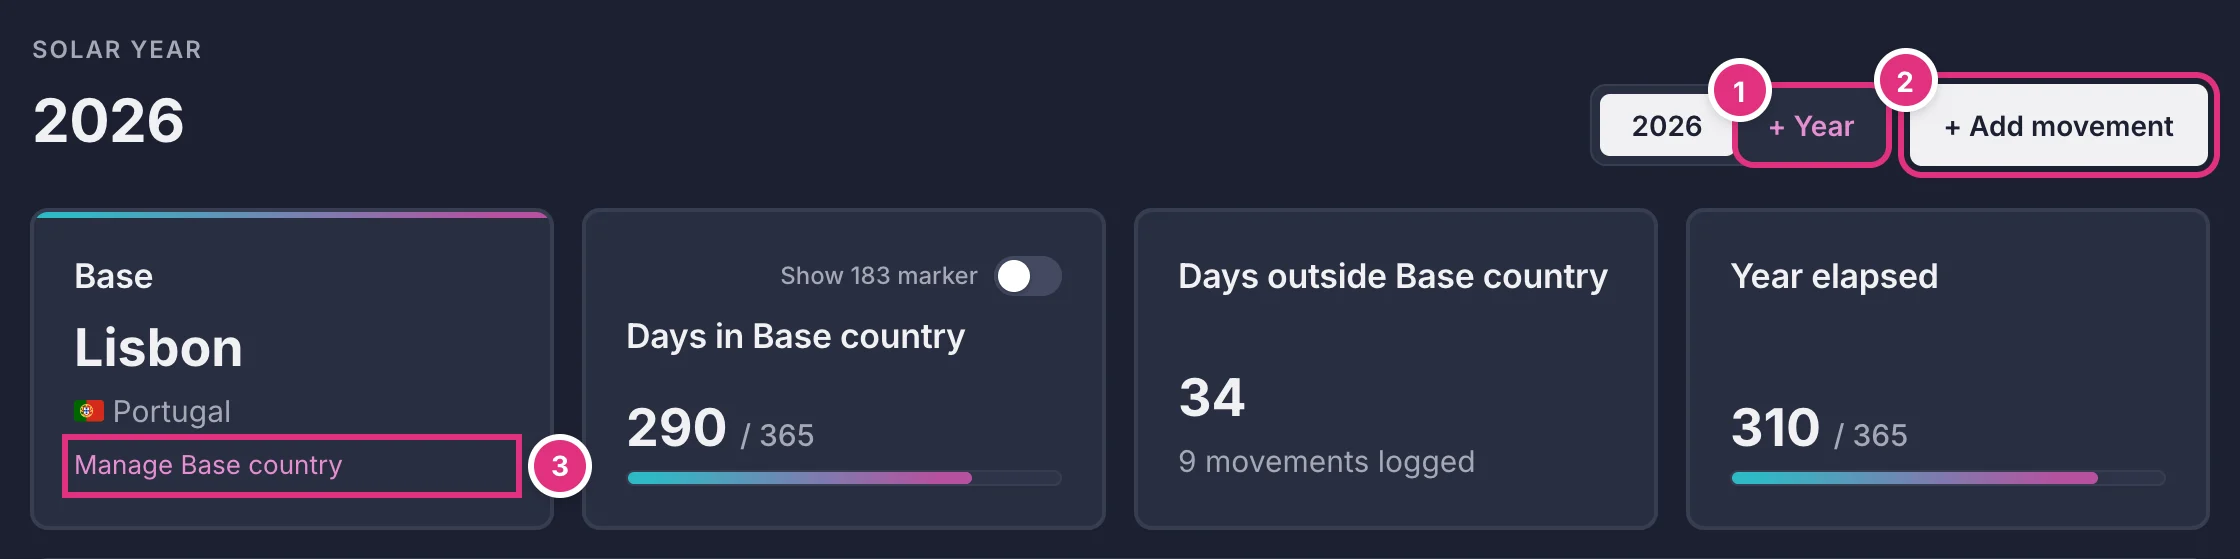
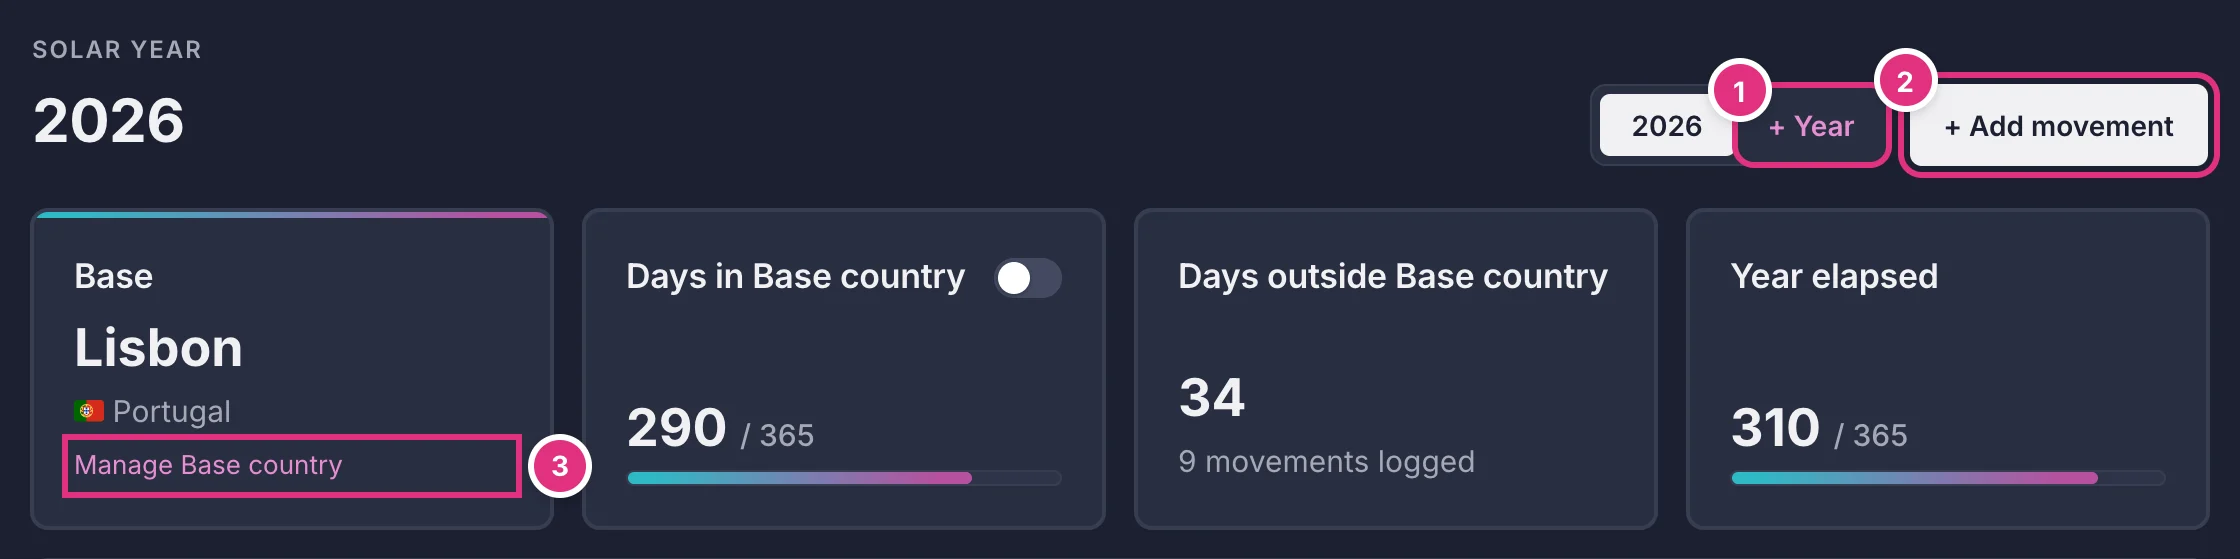
1.12.11: visible button borders, tooltip switch on the title line, years oldest first, year setup layout and Back

Changed region(s): [[0.2812, 0.4562, 0.4688, 0.517], [0.2812, 0.5778, 0.4375, 0.6386], [0.4375, 0.517, 0.4688, 0.5474]]

diff --git a/static/css/style.css b/static/css/style.css
@@ -13,6 +13,7 @@
   --border: #EAEBEF;
   --input-bg: #FFFFFF;
   --input-border: #D2D4DC;
+  --btn-border: #80869A;  /* outlined buttons: 3:1 on cards and the page */
   --topbar: #2B2D3C;
   --topbar-text: #F1F1F3;
   --primary: #383D51;
@@ -59,6 +60,7 @@
   --border: #383D51;
   --input-bg: #1B2030;
   --input-border: #444A62;
+  --btn-border: #767D98;
   --topbar: #1B2030;
   --topbar-text: #F1F1F3;
   --primary: #F1F1F3;
@@ -97,6 +99,7 @@
     --border: #383D51;
     --input-bg: #1B2030;
     --input-border: #444A62;
+    --btn-border: #767D98;
     --topbar: #1B2030;
     --topbar-text: #F1F1F3;
     --primary: #F1F1F3;
@@ -236,7 +239,7 @@ p { margin: 0; }
 .btn:hover { text-decoration: none; }
 .btn-primary { background: var(--primary); color: var(--primary-text); }
 .btn-primary:hover { opacity: 0.88; }
-.btn-ghost { background: transparent; color: var(--text); border-color: var(--border); }
+.btn-ghost { background: transparent; color: var(--text); border-color: var(--btn-border); }
 .btn-ghost:hover { background: var(--surface-2); }
 .btn-danger { background: var(--danger); color: #fff; }
 .btn-danger:hover { filter: brightness(0.88); }  /* darken, never fade: white text keeps its contrast */
@@ -316,11 +319,19 @@ main:focus { outline: none; }
 .stat-of { font-size: 15px; font-weight: 500; }
 .stat-base { position: relative; overflow: hidden; }
 .stat-base::before { content: ""; position: absolute; inset: 0 0 auto 0; height: 3px; background: var(--gradient); }
-.stat-head { display: flex; flex-direction: column; gap: 6px; }
-.stat-head .switch { align-self: flex-end; }  /* above the title, at the top right */
+.stat-head { display: flex; align-items: center; justify-content: space-between; gap: 10px; }  /* the title, the switch at its right */
 /* Cards in a row share one height: the title stays at the top and the content sits at the
    bottom, so a card with less to show has its gap under the title, not under the content. */
 .year-stats .stat > .stat-label + *, .year-stats .stat > .stat-head + * { margin-top: auto; }
+/* The switch with only a tooltip (its name is the aria-label), opening toward the card. */
+.switch-tip[data-tip] { position: relative; }
+.switch-tip[data-tip]::after {
+  content: attr(data-tip); position: absolute; top: calc(100% + 8px); right: 0; z-index: 30; padding: 5px 9px; border-radius: 6px; white-space: nowrap;
+  background: var(--primary); color: var(--primary-text); font-size: 12px; font-weight: 600; line-height: 1.3; box-shadow: var(--shadow);
+  opacity: 0; transform: translateY(-2px); pointer-events: none; transition: opacity 0.12s ease, transform 0.12s ease;
+}
+@media (hover: hover) { .switch-tip[data-tip]:hover::after { opacity: 1; transform: none; } }
+.switch-tip[data-tip]:focus-visible::after { opacity: 1; transform: none; }
 
 /* iOS style switch (role="switch", aria-checked), here for the 183 day marker of the Days in
    Base Country and Days per Country cards, one setting for both. Off hides everything marked

diff --git a/templates/dashboard.html b/templates/dashboard.html
@@ -12,7 +12,7 @@
       {% for r in years %}
         <a class="year-tab {% if r.year == y.year %}active{% endif %}" href="{{ url_for('dashboard', year=r.year) }}"{% if r.year == y.year %} aria-current="page"{% endif %}>{{ r.year }}</a>
       {% endfor %}
-      <a class="year-tab add" href="{{ url_for('new_year') }}" title="Add a year">+ Year</a>
+      <a class="year-tab add" href="{{ url_for('new_year', back=y.year) }}" title="Add a year">+ Year</a>
     </nav>
     <a class="btn btn-primary" href="{{ url_for('movement_new', year=y.year) }}">+ Add movement</a>
   </div>
@@ -27,10 +27,11 @@
   </div>
   <div class="card stat">
     <div class="stat-head">
-      {# Shown by theme.js; the choice is kept in this browser (theme-init.js applies it before
-         the page is drawn). Without JavaScript the marker always shows. #}
-      <button type="button" class="switch" role="switch" aria-checked="false" data-marker-switch hidden><span class="switch-label">Show {{ stats.threshold }} marker</span><span class="switch-track" aria-hidden="true"><span class="switch-thumb"></span></span></button>
       <p class="stat-label">Days in Base country</p>
+      {# Shown by theme.js; the choice is kept in this browser (theme-init.js applies it before
+         the page is drawn). Without JavaScript the marker always shows. No visible label, so the
+         title stays on the line of the other cards' titles: the tooltip and the name say it. #}
+      <button type="button" class="switch switch-tip" role="switch" aria-checked="false" aria-label="Show {{ stats.threshold }} marker" data-tip="Show {{ stats.threshold }} marker" data-marker-switch hidden><span class="switch-track" aria-hidden="true"><span class="switch-thumb"></span></span></button>
     </div>
     <p class="stat-value">{{ stats.base_days }} <span class="muted stat-of">/ {{ stats.total }}</span></p>
     <div class="meter" aria-hidden="true">

diff --git a/templates/year_new.html b/templates/year_new.html
@@ -2,6 +2,7 @@
 {% block title %}New year | Nomad Life{% endblock %}
 {% block content %}
 <div class="narrow">
+  {% if back %}<a class="back" href="{{ back[0] }}">&larr; {{ back[1] }}</a>{% endif %}
   <div class="page-head">
     <div>
       <p class="eyebrow">Solar year setup</p>
@@ -12,9 +13,11 @@
   <div class="card">
     <form method="post" class="stack" data-submit-once>
       <input type="hidden" name="csrf_token" value="{{ csrf_token() }}">
-      <div class="field">
-        <label for="year">Year</label>
-        <input id="year" name="year" type="number" min="1970" max="2100" value="{{ request.form.year or default_year }}" required>
+      <div class="grid-2">{# the Year field as wide as Base country #}
+        <div class="field">
+          <label for="year">Year</label>
+          <input id="year" name="year" type="number" min="1970" max="2100" value="{{ request.form.year or default_year }}" required>
+        </div>
       </div>
       <div class="grid-2">
         <div class="field">
@@ -26,7 +29,10 @@
           <input id="base_city" name="base_city" maxlength="100" value="{{ request.form.base_city }}" placeholder="Lisbon" required>
         </div>
       </div>
-      <button class="btn btn-primary" type="submit">Create year</button>
+      <div class="row gap-sm form-buttons">
+        <button class="btn btn-primary" type="submit">Create year</button>
+        {% if back %}<a class="btn btn-ghost" href="{{ back[0] }}">Cancel</a>{% endif %}
+      </div>
     </form>
   </div>
 </div>

diff --git a/tests/test_year_form.py b/tests/test_year_form.py
@@ -1,0 +1,56 @@
+"""The year tabs and the "Set up your year" page: tabs from the earliest year, a way back, the
+Year field as wide as Base country, and a Create year button as wide as its label."""
+import os
+import re
+
+from tests.helpers import AppTestCase
+
+ROOT = os.path.dirname(os.path.dirname(os.path.abspath(__file__)))
+
+
+class YearTabsTests(AppTestCase):
+    def test_the_tabs_run_from_the_earliest_year(self):
+        self.signup()
+        for y in (2027, 2025, 2026):
+            self.new_year(y)
+        html = self.client.get("/year/2026").get_data(as_text=True)
+        tabs = re.findall(r'class="year-tab[^"]*" href="/year/(\d{4})"', html)
+        self.assertEqual(tabs, ["2025", "2026", "2027"])
+        self.assertIn('<a class="year-tab add" href="/year/new?back=2026" title="Add a year">+ Year</a>', html)
+
+
+class SetUpYearPageTests(AppTestCase):
+    def setUp(self):
+        super().setUp()
+        self.signup()
+
+    def page(self, url="/year/new"):
+        return self.client.get(url).get_data(as_text=True)
+
+    def test_a_first_year_has_no_way_back(self):
+        html = self.page()
+        self.assertNotIn('class="back"', html)
+        self.assertNotIn(">Cancel</a>", html)
+
+    def test_back_to_the_year_it_came_from_or_the_dashboard(self):
+        self.new_year(2026)
+        html = self.page("/year/new?back=2026")
+        self.assertIn('<a class="back" href="/year/2026">&larr; Back to 2026</a>', html)
+        self.assertIn('<a class="btn btn-ghost" href="/year/2026">Cancel</a>', html)
+        # A year that is not the account's (or no year given): the dashboard.
+        for url in ("/year/new?back=1999", "/year/new"):
+            self.assertIn('<a class="back" href="/app">&larr; Back to your dashboard</a>', self.page(url))
+        # A failed save keeps the way back.
+        html = self.client.post("/year/new?back=2026", data={"year": "abc", "base_city": "Rome",
+                                                              "base_country": "Italy"},
+                                follow_redirects=True).get_data(as_text=True)
+        self.assertIn("Back to 2026", html)
+
+    def test_the_layout(self):
+        html = self.page()
+        with open(os.path.join(ROOT, "templates", "year_new.html"), encoding="utf-8") as f:
+            self.assertIn('<div class="grid-2">{# the Year field as wide as Base country #}', f.read())
+        year = html[html.index('<label for="year">'):]
+        self.assertLess(year.index('<input id="year"'), year.index('<label for="base_country">'))
+        # In a row, so the button is as wide as its label, on the left.
+        self.assertIn('<div class="row gap-sm form-buttons">\n        <button class="btn btn-primary" type="submit">Create year</button>', html)

diff --git a/tests/test_marker_switch.py b/tests/test_marker_switch.py
@@ -26,22 +26,26 @@ class MarkerSwitchTests(AppTestCase):
         self.new_year(2030)  # a future year: short of the line
         html, card = self.card(2030)
         threshold = appmod.RESIDENCE_THRESHOLD
-        self.assertIn('<button type="button" class="switch" role="switch" aria-checked="false" '
-                      f'data-marker-switch hidden><span class="switch-label">Show {threshold} marker</span>',
-                      card)
+        # On the title line, with a tooltip and no visible label.
+        self.assertIn('<button type="button" class="switch switch-tip" role="switch" aria-checked="false" '
+                      f'aria-label="Show {threshold} marker" data-tip="Show {threshold} marker" '
+                      'data-marker-switch hidden>', card)
         self.assertIn('<i class="day-marker" style="left:', card)
         self.assertIn('<p class="pill pill-warn day-marker">', card)
         self.assertIn('<p class="stat-label">Days outside Base country</p>', html)
         # The same switch on Days per Country, one setting for both.
-        self.assertEqual(html.count(f'data-marker-switch hidden><span class="switch-label">Show {threshold} marker</span>'), 2)
+        self.assertEqual(html.count(f'data-marker-switch hidden><span class="switch-label">Show {threshold} marker</span>'), 1)
+        self.assertEqual(html.count("data-marker-switch hidden"), 2)
         self.assertNotIn("Days abroad", html)
 
-    def test_the_switch_sits_above_the_title(self):
+    def test_the_switch_sits_on_the_title_line(self):
+        # So the four top cards' titles line up.
         self.new_year(2030)
         _, card = self.card(2030)
-        self.assertLess(card.index("data-marker-switch"), card.index('<p class="stat-label">Days in Base country</p>'))
+        self.assertLess(card.index('<p class="stat-label">Days in Base country</p>'), card.index("data-marker-switch"))
         css = read("static", "css", "style.css")
-        self.assertIn(".stat-head .switch { align-self: flex-end; }", css)
+        self.assertIn(".stat-head { display: flex; align-items: center; justify-content: space-between; gap: 10px; }", css)
+        self.assertIn(".switch-tip[data-tip]::after {", css)
         # The four top cards' titles look like the card titles below them (h2).
         self.assertIn(".year-stats .stat-label { font-size: 17px; font-weight: 600; letter-spacing: -0.01em; color: var(--text); }", css)
         self.assertIn(".stat-label { font-size: 13px; color: var(--muted); font-weight: 500; }", css)  # admin keeps its own

diff --git a/app.py b/app.py
@@ -4364,7 +4364,18 @@ def register_routes(app):
                 else:
                     flash(f"Year {year} created with base in {city}, {country}.", "success")
                     return redirect(url_for("dashboard", year=year))
-        return render_template("year_new.html", default_year=date.today().year)
+        # Back to the year the "+ Year" tab was pressed on (?back=2026), or to the dashboard;
+        # a first year has nowhere to go back to.
+        back_year = request.args.get("back", type=int)
+        owned = {r["year"] for r in db.query("SELECT year FROM years WHERE user_id = ?",
+                                             (current_user.id,))}
+        if back_year in owned:
+            back = (url_for("dashboard", year=back_year), f"Back to {back_year}")
+        elif owned:
+            back = (url_for("index"), "Back to your dashboard")
+        else:
+            back = None
+        return render_template("year_new.html", default_year=date.today().year, back=back)
 
     @app.route("/year/<int:year>")
     @login_required
@@ -4374,7 +4385,8 @@ def register_routes(app):
             "SELECT m.*, (SELECT COUNT(*) FROM documents d WHERE d.movement_id = m.id) AS doc_count "
             "FROM movements m WHERE m.year_id = ? ORDER BY m.start_date, m.end_date DESC, m.id",
             (year_row["id"],))
-        years = db.query("SELECT year FROM years WHERE user_id = ? ORDER BY year DESC",
+        # The year tabs run from the earliest year forward.
+        years = db.query("SELECT year FROM years WHERE user_id = ? ORDER BY year",
                          (current_user.id,))
         base_docs = documents_for(year_row["id"])
         # Stats always use every movement; only the table is paginated.

diff --git a/tests/test_card_alignment.py b/tests/test_card_alignment.py
@@ -49,5 +49,19 @@ class PackageButtonTests(unittest.TestCase):
         self.assertIn(".btn[data-tip]::after { left: 0; transform: translate(0, -2px); }", css())
 
 
+class OutlinedButtonTests(unittest.TestCase):
+    def test_outlined_buttons_have_a_visible_border(self):
+        # --border was 1.2:1 on a card: Choose file and Cancel had almost no edge.
+        text = css()
+        self.assertIn(".btn-ghost { background: transparent; color: var(--text); "
+                      "border-color: var(--btn-border); }", text)
+        light = text[:text.index('[data-theme="dark"] {')]
+        dark = text[text.index(':root[data-theme="dark"] {'):text.index("@media (prefers-color-scheme: dark)")]
+        system = text[text.index("@media (prefers-color-scheme: dark)"):]
+        self.assertIn("--btn-border: #80869A;", light)
+        self.assertIn("--btn-border: #767D98;", dark)
+        self.assertIn("--btn-border: #767D98;", system[:system.index("\n}\n")])
+
+
 if __name__ == "__main__":
     unittest.main()

diff --git a/CHANGELOG.md b/CHANGELOG.md
@@ -19,6 +19,10 @@ All notable changes to this project are documented in this file.
 - The year tabs and **+ Add movement** have the same height, and every year tab (and **+ Year**) the same width.
 - **Date calendar.** From and To of a movement open a month calendar in the app's look instead of the browser's: Monday first, today ringed, the chosen day filled, days outside the year greyed, a Today button, and keys (arrows, Page Up / Page Down, Home / End, Enter, Escape). An empty To opens on the month of From; an empty date says "Please choose a date." The form posts the same dates.
 - The "Show 183 marker" switches start off; this browser remembers once they are turned on. The Base card's link reads **Manage Base country**.
+- The year tabs run from the earliest year forward (2026 before 2027).
+- On Days in Base country the 183 marker switch sits on the title's line with only a tooltip ("Show 183 marker", also its name for screen readers), so the four top cards' titles line up.
+- **Set up your year:** the Year field is as wide as Base country, **Create year** is as wide as its label and on the left, and **Back** and **Cancel** return to the year the "+ Year" tab was pressed on (or the dashboard; a first year has none).
+- Outlined buttons (such as **Choose file**, **Cancel** and **Download ZIP**) have a border that is easy to see in both themes (3:1 against the card; it was 1.2:1).
 - The Accountant Package button says **Download** with a download icon, and the tooltip "Download Accountant Package" (also its name for screen readers).
 - The Accountant Package card reads "Everything for 2026 in one ZIP: a PDF summary, spreadsheets with your timeline and country totals, and all your receipts, ready to share with your accountant."
 - The cards **Days in base country** and **Days abroad** are now **Days in Base country** and **Days outside Base country**. The accountant package keeps its wording.
